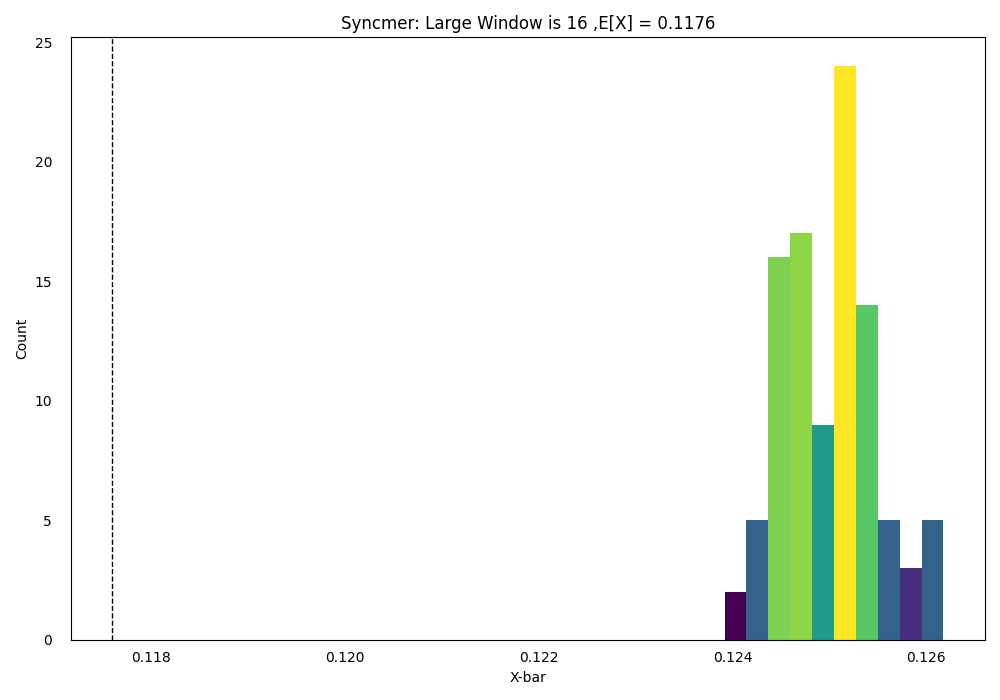
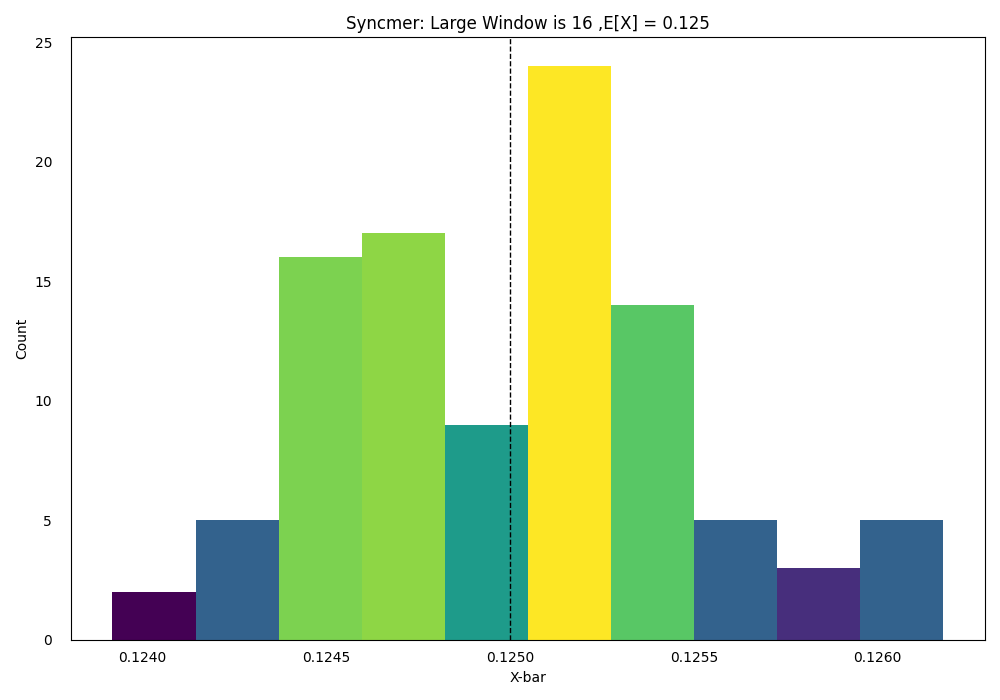
updated graphs for syncmers with corrected expected density

diff --git a/Expected_Density/plotting.py b/Expected_Density/plotting.py
@@ -7,7 +7,7 @@ for i in range(12):
     temp = [];
     inputs.append(temp);
 
-fp = open("out2.txt");
+fp = open("out1.txt");
 for i in range(12):
     line = fp.readline();
     inputs[i] = line.rstrip().split();
@@ -27,7 +27,7 @@ for i in range(12):
         print(data[i][j], end = " ")
     print("");
 """
-expected = [0.009174, 0.007812, 0.0009911, 0.0009766, 0.25, 0.2222, 0.1111, 0.1176, 0.25, 0.2222, 0.1111, 0.1176]
+expected = [0.009174, 0.007812, 0.0009911, 0.0009766, 0.25, 0.2222, 0.1111, 0.1176, 0.2857, 0.25, 0.1176, 0.125]
 titles = ["ModMin: Mod is 109", "ModMin: Mod is 128", "ModMin: Mod is 1009", "ModMin: Mod is 1024", "WindowMin: Large Window is 7", "WindowMin: Large Window is 8", "WindowMin: Large Window is 17", "WindowMin: Large Window is 16", "Syncmer: Large Window is 7", "Syncmer: Large Window is 8", "Syncmer: Large Window is 17", "Syncmer: Large Window is 16"]
 for i in range(12):
     fig, axs = plt.subplots(1, 1, figsize =(10, 7), tight_layout = True)
